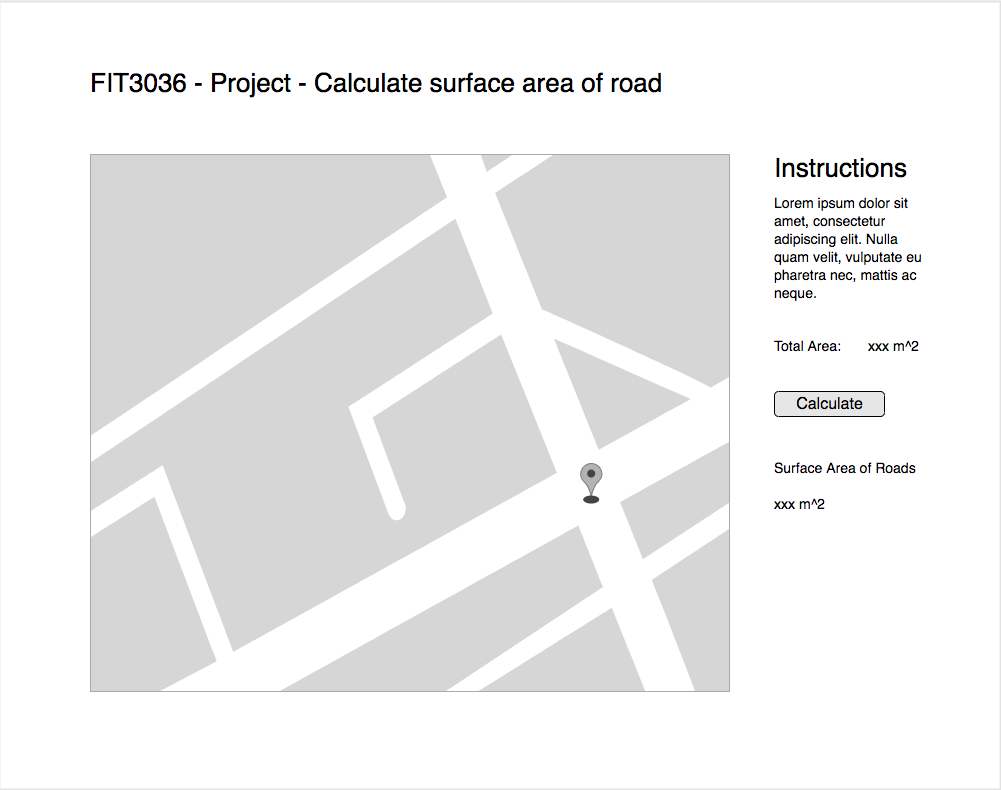
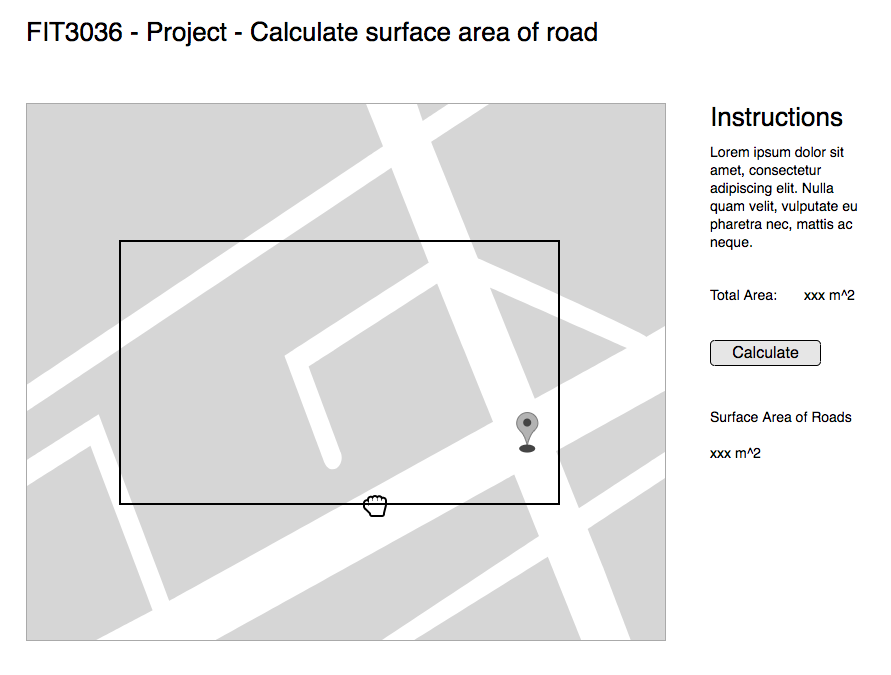
Project Specification (#4)
* Start collating project specification

* CodeClimate enable fixe

* Fix warning

* Convert tabs to spaces :)

* Finalise Non-Functional Requirements

* Functional Requirements completed

* Project Requirements

* Project Objectives

* Resource Requirements

* Fix build issue

* Start adding references

* Project Schedule

* User interface

* Functionality

* Performance

* Internal Design

* Comment out unfinalised code

* Software Architecture

* Test Plan

* Test methods

* Sample test cases

* Risk register

* Test Plan

* Remove TODO from gitignore

* Finish rest of sections except introduction

* Finalise introduction

diff --git a/project-specification/project-specification.tex b/project-specification/project-specification.tex
@@ -2,11 +2,23 @@
 
 \usepackage[utf8]{inputenc}
 \usepackage[british]{babel}
+\usepackage{csquotes}
+\usepackage[style=apa]{biblatex}
 \usepackage{graphicx}
 \usepackage{float}
-\graphicspath{ {images/} }
+\usepackage{algorithm}
+\usepackage[noend]{algpseudocode}
+
+\bibliography{project-specification}
+
+\graphicspath{{images/}}
+
+\makeatletter
+\def\BState{\State\hskip-\ALG@thistlm}
+\makeatother
 
 \begin{document}
+
 \title{FIT3036 --- Project Specification}
 \author{Dylan Pinn --- 24160547}
 \maketitle
@@ -17,87 +29,304 @@
 
 \section{Introduction}
 
+This project specification outlines the plan to design, implement, test and
+deliver the FIT3036 Computer Science project. We have been tasked to calculate
+the total surface area of all of the roads within any given 1 square kilometre
+space. We follow the software development life cycle for planning, creating
+testing and deployment of the system. This will help ensure that that project
+meets all of the requirements, is tested and is delivered on time.
+
 \section{Project Requirements}
+
+The functional and non-functional requirements of the project have been outlined
+in the following sections.
 
 \subsection{Functional Requirements}
 
+The functional requirements are:
+
+\begin{itemize}
+  \item System shall allow a user to select a 1 square km area on Google Maps.
+  \item System shall allow a user to request the total area of the roads within
+    the nominated square area.
+\end{itemize}
+
 \subsection{Non-functional Requirements}
+
+The non-functional requirements are:
+
+\begin{itemize}
+  \item System shall be easily accessible via the Internet.
+  \item System shall be testable.
+  \item System shall be affordable to host.
+  \item System shall be easy to deploy.
+  \item System shall be easy to maintain.
+  \item System shall be well documented.
+\end{itemize}
 
 \section{Project Plan}
 
+The project plan includes an overview of the project, risk analysis, resource
+requirements and the project schedule.
+
 \subsection{Overview}
 
-\textbf{Project objectives:} Our company secured a contract for a local council in Victoria to re-surface roads in a designated square kilometre area.
+\paragraph{Project Objectives:}
 
-Can use:
-Google Maps and related
-Satellite/aerial views
-Work out the total area of roads in the nominated square kilometre to give a quote.
-Need to write related code along with an elegant GUI to support the calculations.
+Our company secured a contract for a local council in Victoria to re-surface
+roads in a designated kilometre area. The objectives are to design, implement,
+test and deliver a system that will perform these calculations and display the
+result to the user.
 
-Requirements:
-Use any method to calculate the total area of the roads.
-Has to be testable.
-Easy to use GUI.
+\paragraph{Requirements:}
 
-Constraints:
-Only have access to publicly available data.
-Available information online
-No / Limited access to council records
+We are to use Google Maps and related products and any satellite/aerial views.
+The project involves writing the related code, with an elegant GUI to support
+calculations. \autocite[2]{intro:1}
+
+\paragraph{Constraints:}
+
+We have the following constraints on the project:
+
+\begin{itemize}
+  \item Only have access to publicly available data.
+  \item Limited to available information online.
+  \item No / Limited access to council records.
+  \item Project must be finalised by the end of week 12.
+\end{itemize}
 
 \subsection{Risk Analysis}
 
-% TODO: Attach Google Docs sheet and expand
+We have performed a risk analysis of the project and these and are outlined in
+figure~\ref{fig:risk-register}. This includes the probability, potential
+responses and impact to the project.
+
+\begin{figure}[H]
+  \includegraphics[width=\textwidth]{risk-register}
+  \caption{Risk Register}\label{fig:risk-register}
+\end{figure}
 
 \subsection{Resource Requirements}
 
+\paragraph{Hardware:}
+
+We have decided to use as much Software as a Service (SaaS), Platform as a
+Service (PaaS) and Infrastructure as a Service (IaaS) solutions to keep costs
+down.
+
+Amazon Web Services (AWS) has been chosen to use due to its comprehensive free
+tier and prior experience with the platform. The following AWS services are
+going to be utilised:
+
+\begin{itemize}
+  \item AWS Lambda --- Functions as service; allows running back-end code
+    without maintaining server infrastructure \autocite{aws:2}.
+  \item AWS API Gateway --- Allows creating public API endpoints for Lambda
+    functions \autocite{aws:3}.
+  \item AWS S3 --- Cheap scalable storage to store front-end code
+    \autocite{aws:4}.
+  \item AWS Cloudfront --- CDN for front-end code. Speeds up delivery by caching
+    content \autocite{aws:5}.
+  \item AWS Cloudformation --- Service to provision services on AWS
+    \autocite{aws:6}
+\end{itemize}
+
+We are going to use continuous integration and continuous deployment using
+Travis CI which offers free plans for Open Source software \autocite{trci:7}. This allows us to use
+the latest devops practices to automate running tests and deploying the latest
+tested code.
+
+\paragraph{Software:}
+
+The following is an outline of the software required for the project:
+
+\begin{itemize}
+  \item Local development environment --- Code editor, IDE, terminal, etc.
+  \item NodeJS --- Required to build front-end code.
+  \item Go Programming Language --- Required to build back-end code.
+  \item \LaTeX{} --- Required to build documentation.
+\end{itemize}
+
 \subsection{Schedule}
 
-Created a Gantt Chart, as seen in figure \ref{fig:gantt}, from our Trello board using TeamGantt. This allows working back from the due date to meet deadlines.
+Created a Gantt Chart, as seen in figure~\ref{fig:gantt}, from our Trello board
+\autocite{trel:15} using TeamGantt. This allows working back from the due date
+to meet deadlines.
 
 \begin{figure}[H]
-\includegraphics[width=\textwidth]{gantt-chart}
-\caption{Gantt chart}
-    \label{fig:gantt}
+  \includegraphics[width=\textwidth]{gantt-chart}
+  \caption{Gantt chart}\label{fig:gantt}
 \end{figure}
-
 
 \section{External Design}
 
+The external design includes the user interface, functionality and performance.
+
 \subsection{User Interface}
 
-Created mockup figure \ref{fig:mockup}. %TODO: Add square to mockup.
+Created mock-up as seen in figure~\ref{fig:mockup}, main features are:
 
-Open webpage and presented with a large render of Google Maps. There is a square that can be positioned and sized over the map for the user to select the area to calculate.
-
-A calculation shows the total area of the shape over the map.
-
-The user then pushes the "Calculate" button to generate the surface area of the roads within the square.
-
-There is help information on the page.
+\begin{itemize}
+  \item Open webpage and user is presented with a large render of Google Maps.
+    There is a square that can be positioned and sized over the map for the user
+    to select the area to calculate.
+  \item A calculation shows the total area of the shape over the map. This is
+    updated whenever the user resizes or moves the square.
+  \item The user then pushes the ``Calculate'' button to generate the surface
+    area of the roads within the square.
+  \item There is help information on the page.
+\end{itemize}
 
 \begin{figure}[H]
   \includegraphics[width=\textwidth]{UI-mockup}
-  \caption{Application Mockup}
-  \label{fig:mockup}
+  \caption{Application Mock-up}\label{fig:mockup}
 \end{figure}
 
 \subsection{Functionality}
 
+An API will be created that will take 4 position parameters, each boundary is
+made up of a Latitude and Longitude. This data is used to call the  Open Street
+Maps API \autocite{osm:14} to return data about all of the streets within the
+area.
+
+This is then passed to a method that will use the Haversine distance calculation
+\autocite{hav:8} to calculate distance between all of the nodes. If number of
+lanes information is provided then this is multiplied by by the default lane
+width within Australia (3.5m) \autocite{lane:9} if not then we are assuming that
+the road is only 2 lanes wide. This is then summed and returned.
+
+Another API is exposed for the front-end UI, it calculates the total area of the
+of the shape over the map. This has been included to help improve the UI.\@ The
+API method will take 4 position arguments, each a boundary, made up of a single
+latitude and longitude. This will calculate the surface area of the 4 points and
+return the area \autocite{math:10}.
+
 \subsection{Performance}
+
+When considering performance the two main points are time and space.
+
+\paragraph{Time:}
+
+We would like the response from the API to calculate the area of the square to
+be very fast $(< 0.5s)$ as this will run whenever, the area is changed.
+
+The main method that will calculate the total surface area of the all of the
+roads will also need to be sum what fast as we don't want the user to have to
+wait a long time while this is calculated $(< 30s)$.
+
+\paragraph{Space:}
+
+The back-end code which runs on AWS Lambda, can run between 128--3008MB memory
+to run the method. The default is 1024MB which is what we will be using.
 
 \section{Internal Design}
 
+The two main functions of the system are to calculate the total surface area of
+the selected area and to calculate the surface area of the roads within the same
+area.
+
+\paragraph{Calculate Total Surface Area:}
+
+These steps below are outlined in figure~\ref{fig:seq-total-area}
+
+\begin{enumerate}
+  \item User drags or resizes square in Map.
+  \item These parameters are sent to the back-end service.
+  \item This calculates the total surface area.
+  \item This is returned to the user.
+\end{enumerate}
+
+\begin{figure}[H]
+  \includegraphics[width=\textwidth]{sequence-diagram-calculate-total-surface-area}
+  \caption{Sequence Diagram --- Calculate Total Surface
+  Area}\label{fig:seq-total-area}
+\end{figure}
+
+\paragraph{Calculate Total Surface Area of Roads:}
+
+These steps below are outlined in figure~\ref{fig:seq-total-area-roads}
+
+\begin{enumerate}
+  \item User requests to calculate total surface area of roads.
+  \item These parameters are sent to the back-end service.
+  \item These are used to call OpenStreetMap API
+  \item It then iterates over data and calculates the distance of all of the
+    roads.
+  \item The area of these roads is then calculated with lane width.
+  \item These results are summed.
+  \item This is returned to the user.
+\end{enumerate}
+
+\begin{figure}[H]
+  \includegraphics[width=\textwidth]{sequence-diagram-calculate-total-surface-area-of-roads}
+  \caption{Sequence Diagram --- Calculate Total Surface Area of
+  Roads}\label{fig:seq-total-area-roads}
+\end{figure}
+
 \section{Software Architecture}
+
+Figure~\ref{fig-class-diagram} shows how architecture of the back-end code. It
+is broken up into 4 main classes, which calculate area, sum data, calculate
+distance and calculate the area of a road.
+
+\begin{figure}[H]
+  \includegraphics[width=\textwidth]{class-diagram}
+  \caption{Class Diagram}\label{fig:class-diagram}
+\end{figure}
 
 \section{Test Plan}
 
+Test plan for this project includes test coverage, test methods and the sample
+test cases that will be used.
+
 \subsection{Test coverage}
+
+We are going to use Jest \autocite{jest:11} and react-testing-library
+\autocite{rtl:12} to test the front-end components.
+
+To test the back-end code we can use the inbuilt testing package in Go
+\autocite{go:13}.
+
+These will automatically be run through development using test runners to run on
+code change.
+
+Tests will also be run automatically through the CI/CD service before deployment
+to ensure that that code is only deployed if the tests have passed.
 
 \subsection{Test methods}
 
+To ensure that the project is fully tested it will use a variety of tests.
+
+\begin{itemize}
+  \item Unit tests on all class methods. This verifies that the individual
+    functions behave as expected.
+  \item Integration tests for API back-end to ensure that correct response is
+    returned for known parameters.
+  \item Unit test front-end components to ensure that they behave and interact
+    in the correct manor.
+  \item Acceptance tests to make sure all requirements are met.
+  \item Able to generate test coverage reports for front end and back end code.
+    $80-100\%$ test coverage is acceptable.
+  \item System tests will test the system as a whole and test the entire
+    functionality.
+\end{itemize}
+
 \subsection{Sample test cases}
 
+We are going to create test plans that will cover the main functionality of the
+program. These will include:
+
+\begin{itemize}
+  \item Test a known Area to calculate the total area.
+  \item Test a known Distance to know the length of it.
+  \item Test a known Area to sanity check the surface area of the roads within
+    it.
+\end{itemize}
+
+\pagebreak
+
 \section{References}
+
+\printbibliography{}
 
 \end{document}
